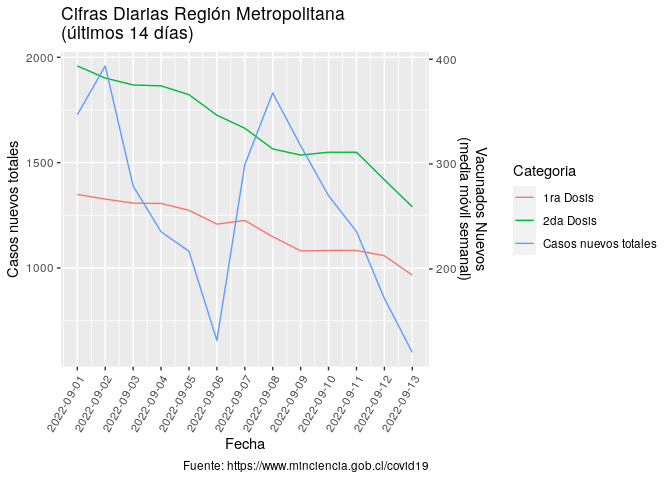
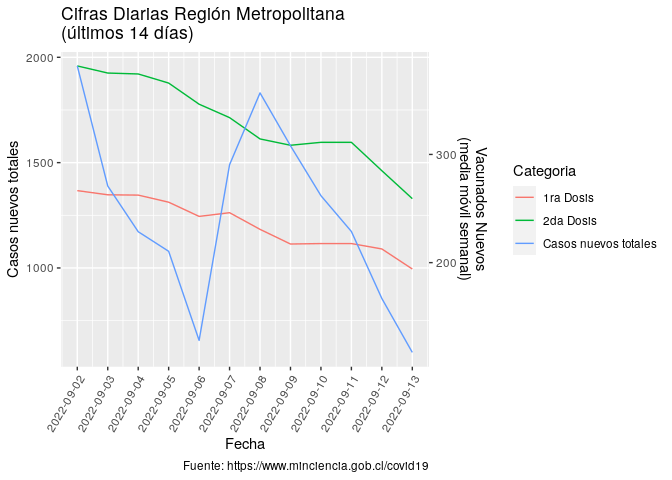
Re-build Rmarkdown files

diff --git a/README.md b/README.md
@@ -3,7 +3,7 @@
 
 Ejemplo de uso de total\_casos de COVID recopilados por el Ministerio de
 Ciencia de Chile <https://www.minciencia.gob.cl/covid19>. Última
-actualización: 2022-09-14
+actualización: 2022-09-15
 
 ## Visualización desde el comienzo de la pandemia
 
